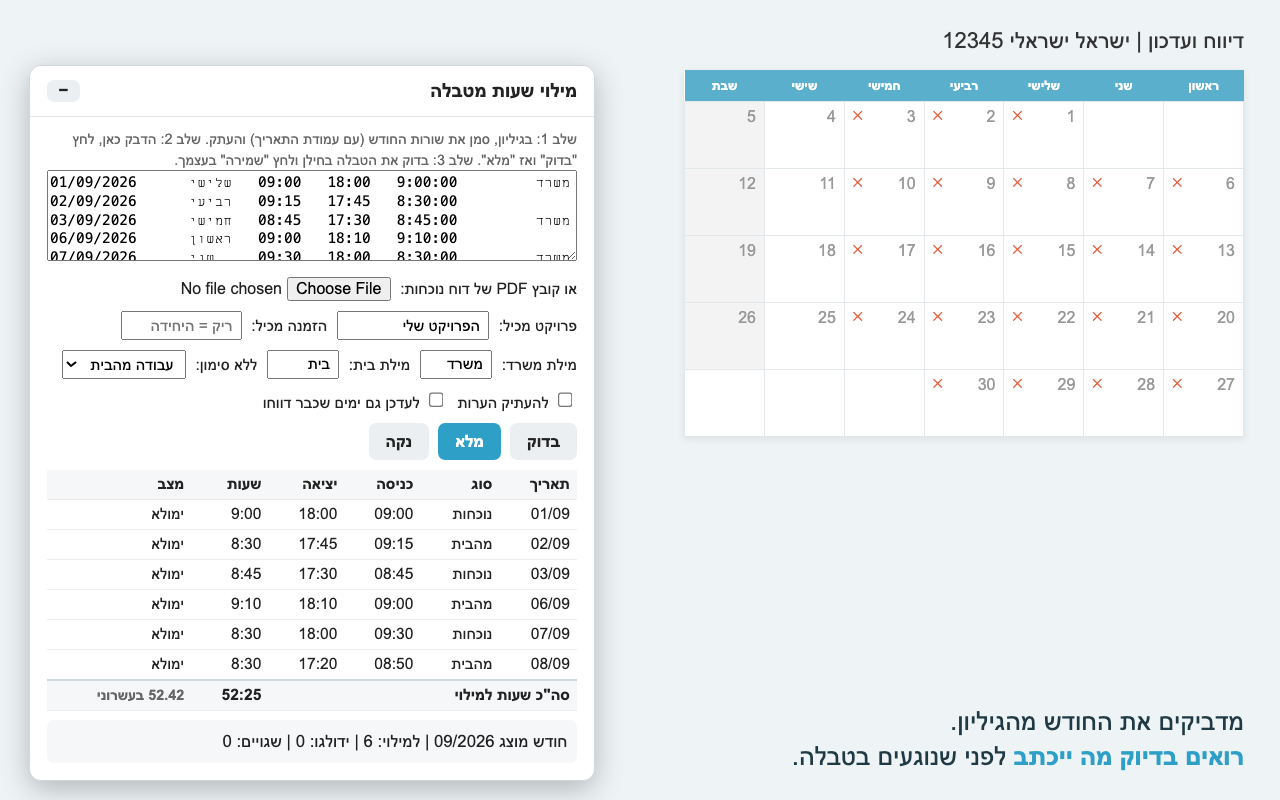
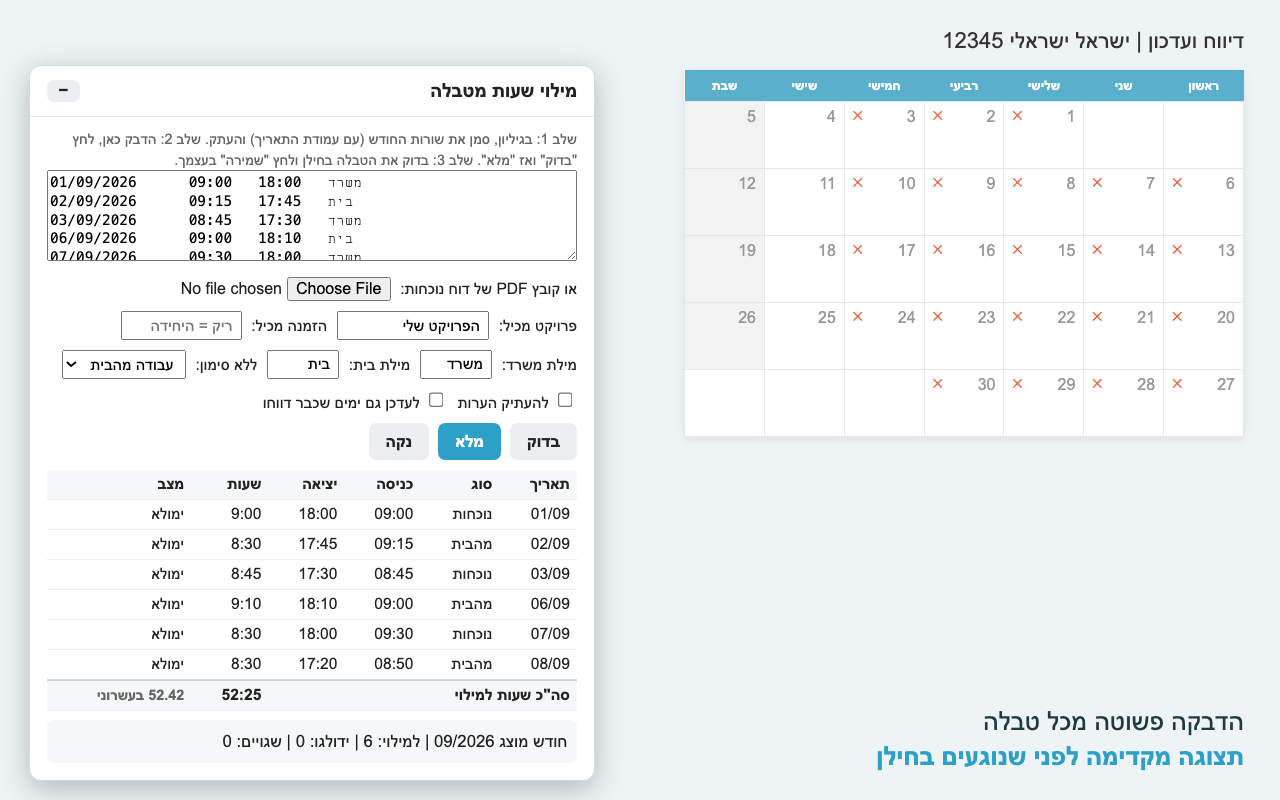
Store screenshots: no weekday column in the sample, captions sharpened

Changed region(s): [[0.125, 0.2188, 0.375, 0.3438], [0.625, 0.875, 0.9688, 0.9688]]

diff --git a/store/shots/mock.html b/store/shots/mock.html
@@ -64,21 +64,21 @@
     + rows.map((r) => `<tr><td>${r[0]}</td><td>${r[1]}</td><td>${r[2]}</td><td>${r[3]}</td><td>${r[4]}</td><td>${state}</td></tr>`).join('')
     + '<tr class="hf-total"><td colspan="4">סה"כ שעות למילוי</td><td>52:25</td><td class="hf-hint">52.42 בעשרוני</td></tr></tbody></table>';
   if (scene === '1') {
-    ta.value = '01/09/2026\tשלישי\t09:00\t18:00\t9:00:00\t\tמשרד\n02/09/2026\tרביעי\t09:15\t17:45\t8:30:00\n03/09/2026\tחמישי\t08:45\t17:30\t8:45:00\t\tמשרד\n06/09/2026\tראשון\t09:00\t18:10\t9:10:00\n07/09/2026\tשני\t09:30\t18:00\t8:30:00\t\tמשרד';
+    ta.value = '01/09/2026\t09:00\t18:00\tמשרד\n02/09/2026\t09:15\t17:45\tבית\n03/09/2026\t08:45\t17:30\tמשרד\n06/09/2026\t09:00\t18:10\tבית\n07/09/2026\t09:30\t18:00\tמשרד';
     pv.innerHTML = table('ימולא');
     st.textContent = 'חודש מוצג 09/2026 | למילוי: 6 | ידולגו: 0 | שגויים: 0';
-    cap.innerHTML = 'מדביקים את החודש מהגיליון.<br><b>רואים בדיוק מה ייכתב</b> לפני שנוגעים בטבלה.';
+    cap.innerHTML = 'הדבקה פשוטה מכל טבלה<br><b>תצוגה מקדימה לפני שנוגעים בחילן</b>';
   } else if (scene === '2') {
     ta.value = '02/08/2026,07:29,15:25,משרד\n03/08/2026,07:24,15:22,משרד\n04/08/2026,08:20,17:20,בית,"מעבר לתשתית חדשה"\n05/08/2026,08:04,17:04,בית\n06/08/2026,08:44,17:44,בית';
     pv.innerHTML = table('ימולא');
     st.textContent = 'זוהה: מלם שכר | 18 ימים | סה"כ ב-PDF 154:43, תואם | דולגו: אין דיווח נוכחות: 10/08, 11/08\nחודש מוצג 08/2026 | למילוי: 18 | ידולגו: 0 | שגויים: 0';
-    cap.innerHTML = 'או בוחרים קובץ PDF של דוח נוכחות.<br><b>נקרא בתוך הדפדפן</b>, סה"כ החודש מאומת מול הדוח.';
+    cap.innerHTML = 'מילוי שעות ישירות מקובץ PDF<br><b>הקובץ לא נשלח לשום מקום</b>';
   } else {
-    ta.value = '01/09/2026\tשלישי\t09:00\t18:00\t9:00:00\t\tמשרד\n02/09/2026\tרביעי\t09:15\t17:45\t8:30:00';
+    ta.value = '01/09/2026\t09:00\t18:00\tמשרד\n02/09/2026\t09:15\t17:45\tבית';
     pv.innerHTML = table('ימולא');
     st.className = 'hf-status ok';
     st.textContent = 'אומת: 6 ימים שלמים. בדוק את הטבלה ולחץ "שמירה".';
-    cap.innerHTML = '"מלא" ממלא ומאמת כל שורה.<br><b>"שמירה" בחילן לוחצים אתם.</b> תמיד.';
+    cap.innerHTML = 'התוסף ממלא ומאמת כל שורה<br><b>את השמירה בחילן אתם עושים</b>';
   }
 </script>
 </body>
